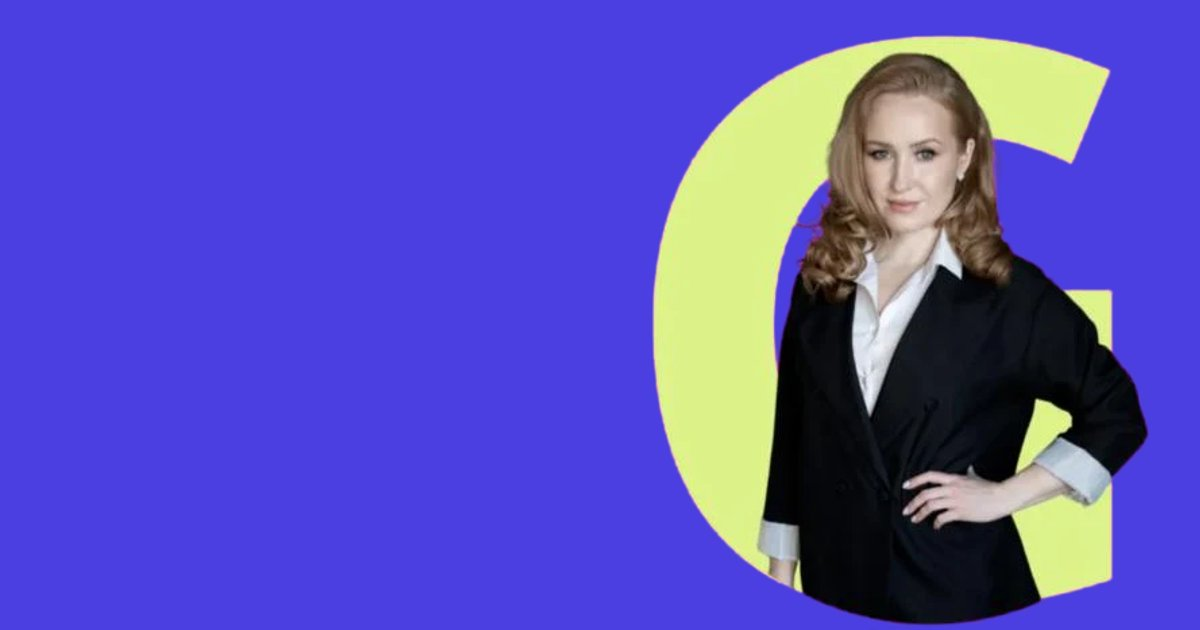
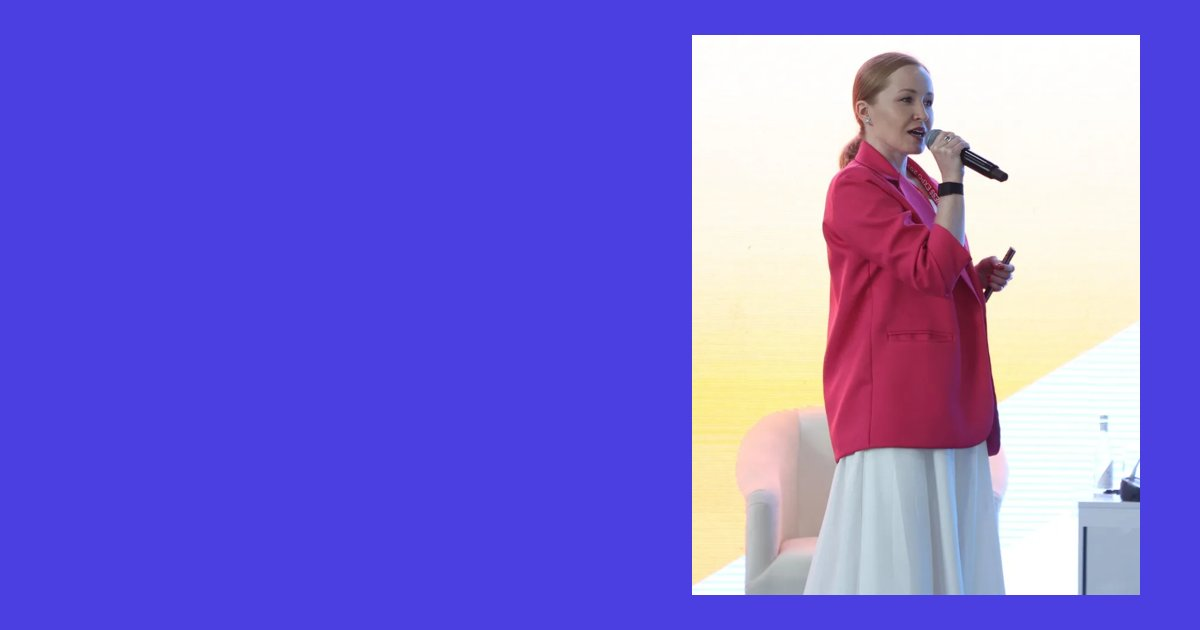
Новое фото со сцены на главной и в «Обо мне»
Claude-Session: https://claude.ai/code/session_01F5WjCKpPBpSFsvmNWVpzbH

diff --git a/public/about/index.html b/public/about/index.html
@@ -17,7 +17,7 @@
 <main id="main"><nav class="crumbs" aria-label="Хлебные крошки"><div class="wrap"><a href="/">Главная</a> <span aria-hidden=true>/</span> <span aria-current="page">Обо мне</span></div></nav><section class="page-hero"><div class="wrap about-hero"><div><p class="eyebrow">Обо мне</p><h1>Анастасия Гавриш</h1>
 <p class="lead">Эксперт по продажам, в маркетинге и продажах с 2010 года. Помогаю собственникам растить компании через обучение отделов продаж и разработку скриптов. Люблю разбирать продажи до костей и находить точки роста.</p>
 <div class="hero-cta"><a class="btn" href="#offer">Хочу разбор переписок</a></div></div>
-<figure class="hero-photo"><img src="/assets/img/hero.webp" width="380" height="444" alt="Анастасия Гавриш"></figure></div></section>
+<figure class="hero-photo"><img src="/assets/img/hero.webp" width="760" height="950" alt="Анастасия Гавриш"></figure></div></section>
 <section class="prose-sec"><div class="wrap prose">
 <h2>Люблю и умею продавать</h2><p>Только в 2024 году сделала личных продаж в B2B-сегменте больше чем на 200 миллионов тенге. Продаю сама и в холодную – нахожу людей, которые принимают решения в крупных компаниях, и довожу до сделки.</p>
 <h2>Карьера в кино</h2><p>7 лет работала кинопродюсером. Сняла 4 полнометражных фильма и 1 сериал, продавала фильмы в прокат в 11 стран, управляла двумя киностудиями в Москве. Привлекла больше 500 миллионов рублей в Фонде кино и Министерстве культуры РФ на производство фильмов своих студий и сторонних продюсеров.</p>

diff --git a/public/index.html b/public/index.html
@@ -20,7 +20,7 @@
 <h1>Найду, где ваш отдел продаж <mark>теряет деньги</mark>, и исправлю это</h1>
 <p class="lead">Аудит, скрипты, обучение и построение отдела продаж. 16 лет в продажах, работаю с бизнесом в России, Казахстане и везде, где продают на русском.</p>
 <div class="hero-cta"><a class="btn" href="#offer">Хочу разбор переписок</a><span class="msgr">или напишите в <a href="https://t.me/gavrish_anastasiya">Telegram</a> и <a href="https://wa.me/77472371536">WhatsApp</a></span></div></div>
-<figure class="hero-photo"><img src="/assets/img/hero.webp" width="380" height="444" alt="Анастасия Гавриш, эксперт по продажам" fetchpriority="high"><figcaption><b>Анастасия Гавриш</b><span>эксперт по продажам</span></figcaption></figure>
+<figure class="hero-photo"><img src="/assets/img/hero.webp" width="760" height="950" alt="Анастасия Гавриш, эксперт по продажам" fetchpriority="high"><figcaption><b>Анастасия Гавриш</b><span>эксперт по продажам</span></figcaption></figure>
 </div></section>
 <section class="facts" aria-label="Цифры"><div class="wrap"><ul class="facts-list">
 <li><b>16+</b><span>лет в продажах и маркетинге</span></li><li><b>200 млн ₸</b><span>личных B2B-продаж за 2024 год</span></li><li><b>10</b><span>проектов, разобранных в кейсах</span></li></ul>

diff --git a/public/assets/site.css b/public/assets/site.css
@@ -351,3 +351,8 @@ h1,h2,h3{overflow-wrap:break-word;-webkit-hyphens:auto;hyphens:auto}
 .page-hero h1{font-size:clamp(24px,6.6vw,56px)}
 .form-kz{padding:16px 18px;border-radius:var(--r);background:var(--ok-bg);color:var(--ok-fg);display:grid;gap:6px;font-size:15px}
 .form-kz a{color:var(--violet);font-weight:700}
+/* фото со сцены вместо вырезанного портрета */
+.hero-photo{background:none!important;padding:0!important;isolation:isolate}
+.hero-photo img{border-radius:var(--r);aspect-ratio:4/5;object-fit:cover;width:100%;height:auto}
+.hero-photo::before{content:"";position:absolute;inset:18px -18px -18px 18px;background:var(--lime);border-radius:var(--r);z-index:-1}
+@media (max-width:860px){.hero-photo::before{inset:12px -12px -12px 12px}}

diff --git a/src/extra.css b/src/extra.css
@@ -104,3 +104,8 @@ h1,h2,h3{overflow-wrap:break-word;-webkit-hyphens:auto;hyphens:auto}
 .page-hero h1{font-size:clamp(24px,6.6vw,56px)}
 .form-kz{padding:16px 18px;border-radius:var(--r);background:var(--ok-bg);color:var(--ok-fg);display:grid;gap:6px;font-size:15px}
 .form-kz a{color:var(--violet);font-weight:700}
+/* фото со сцены вместо вырезанного портрета */
+.hero-photo{background:none!important;padding:0!important;isolation:isolate}
+.hero-photo img{border-radius:var(--r);aspect-ratio:4/5;object-fit:cover;width:100%;height:auto}
+.hero-photo::before{content:"";position:absolute;inset:18px -18px -18px 18px;background:var(--lime);border-radius:var(--r);z-index:-1}
+@media (max-width:860px){.hero-photo::before{inset:12px -12px -12px 12px}}

diff --git a/src/site.css b/src/site.css
@@ -351,3 +351,8 @@ h1,h2,h3{overflow-wrap:break-word;-webkit-hyphens:auto;hyphens:auto}
 .page-hero h1{font-size:clamp(24px,6.6vw,56px)}
 .form-kz{padding:16px 18px;border-radius:var(--r);background:var(--ok-bg);color:var(--ok-fg);display:grid;gap:6px;font-size:15px}
 .form-kz a{color:var(--violet);font-weight:700}
+/* фото со сцены вместо вырезанного портрета */
+.hero-photo{background:none!important;padding:0!important;isolation:isolate}
+.hero-photo img{border-radius:var(--r);aspect-ratio:4/5;object-fit:cover;width:100%;height:auto}
+.hero-photo::before{content:"";position:absolute;inset:18px -18px -18px 18px;background:var(--lime);border-radius:var(--r);z-index:-1}
+@media (max-width:860px){.hero-photo::before{inset:12px -12px -12px 12px}}

diff --git a/gen.py b/gen.py
@@ -162,7 +162,7 @@ def home():
 <h1>Найду, где ваш отдел продаж <mark>теряет деньги</mark>, и исправлю это</h1>
 <p class="lead">Аудит, скрипты, обучение и построение отдела продаж. 16 лет в продажах, работаю с бизнесом в России, Казахстане и везде, где продают на русском.</p>
 <div class="hero-cta"><a class="btn" href="#offer">Хочу разбор переписок</a><span class="msgr">или напишите в <a href="{TG}">Telegram</a> и <a href="{WA}">WhatsApp</a></span></div></div>
-<figure class="hero-photo"><img src="{a('img/hero.webp')}" width="380" height="444" alt="Анастасия Гавриш, эксперт по продажам" fetchpriority="high"><figcaption><b>Анастасия Гавриш</b><span>эксперт по продажам</span></figcaption></figure>
+<figure class="hero-photo"><img src="{a('img/hero.webp')}" width="760" height="950" alt="Анастасия Гавриш, эксперт по продажам" fetchpriority="high"><figcaption><b>Анастасия Гавриш</b><span>эксперт по продажам</span></figcaption></figure>
 </div></section>
 <section class="facts" aria-label="Цифры"><div class="wrap"><ul class="facts-list">
 <li><b>16+</b><span>лет в продажах и маркетинге</span></li><li><b>200 млн ₸</b><span>личных B2B-продаж за 2024 год</span></li><li><b>10</b><span>проектов, разобранных в кейсах</span></li></ul>
@@ -325,7 +325,7 @@ def about_page():
     body = f"""{crumbs}<section class="page-hero"><div class="wrap about-hero"><div><p class="eyebrow">Обо мне</p><h1>Анастасия Гавриш</h1>
 <p class="lead">Эксперт по продажам, в маркетинге и продажах с 2010 года. Помогаю собственникам растить компании через обучение отделов продаж и разработку скриптов. Люблю разбирать продажи до костей и находить точки роста.</p>
 <div class="hero-cta"><a class="btn" href="#offer">Хочу разбор переписок</a></div></div>
-<figure class="hero-photo"><img src="{a('img/hero.webp')}" width="380" height="444" alt="Анастасия Гавриш"></figure></div></section>
+<figure class="hero-photo"><img src="{a('img/hero.webp')}" width="760" height="950" alt="Анастасия Гавриш"></figure></div></section>
 <section class="prose-sec"><div class="wrap prose">
 <h2>Люблю и умею продавать</h2><p>Только в 2024 году сделала личных продаж в B2B-сегменте больше чем на 200 миллионов тенге. Продаю сама и в холодную – нахожу людей, которые принимают решения в крупных компаниях, и довожу до сделки.</p>
 <h2>Карьера в кино</h2><p>7 лет работала кинопродюсером. Сняла 4 полнометражных фильма и 1 сериал, продавала фильмы в прокат в 11 стран, управляла двумя киностудиями в Москве. Привлекла больше 500 миллионов рублей в Фонде кино и Министерстве культуры РФ на производство фильмов своих студий и сторонних продюсеров.</p>
@@ -444,7 +444,7 @@ def main():
         urls = "".join(f"<url><loc>{SITE}/{p}</loc></url>" for p in SITEMAP)
         open(os.path.join(OUT, "sitemap.xml"), "w").write(f'<?xml version="1.0" encoding="UTF-8"?><urlset xmlns="http://www.sitemaps.org/schemas/sitemap/0.9">{urls}</urlset>')
         import datetime
-        open(os.path.join(OUT, "build.txt"), "w").write(datetime.datetime.utcnow().strftime("%Y-%m-%dT%H:%M:%SZ") + "\n")
+        open(os.path.join(OUT, "build.txt"), "w").write(datetime.datetime.now(datetime.timezone.utc).strftime("%Y-%m-%dT%H:%M:%SZ") + "\n")
         open(os.path.join(OUT, "robots.txt"), "w").write(f"User-agent: *\nDisallow: /admin\nDisallow: /api/\nSitemap: {SITE}/sitemap.xml\n")
     print("pages:", len(SITEMAP), "→", OUT)
 
